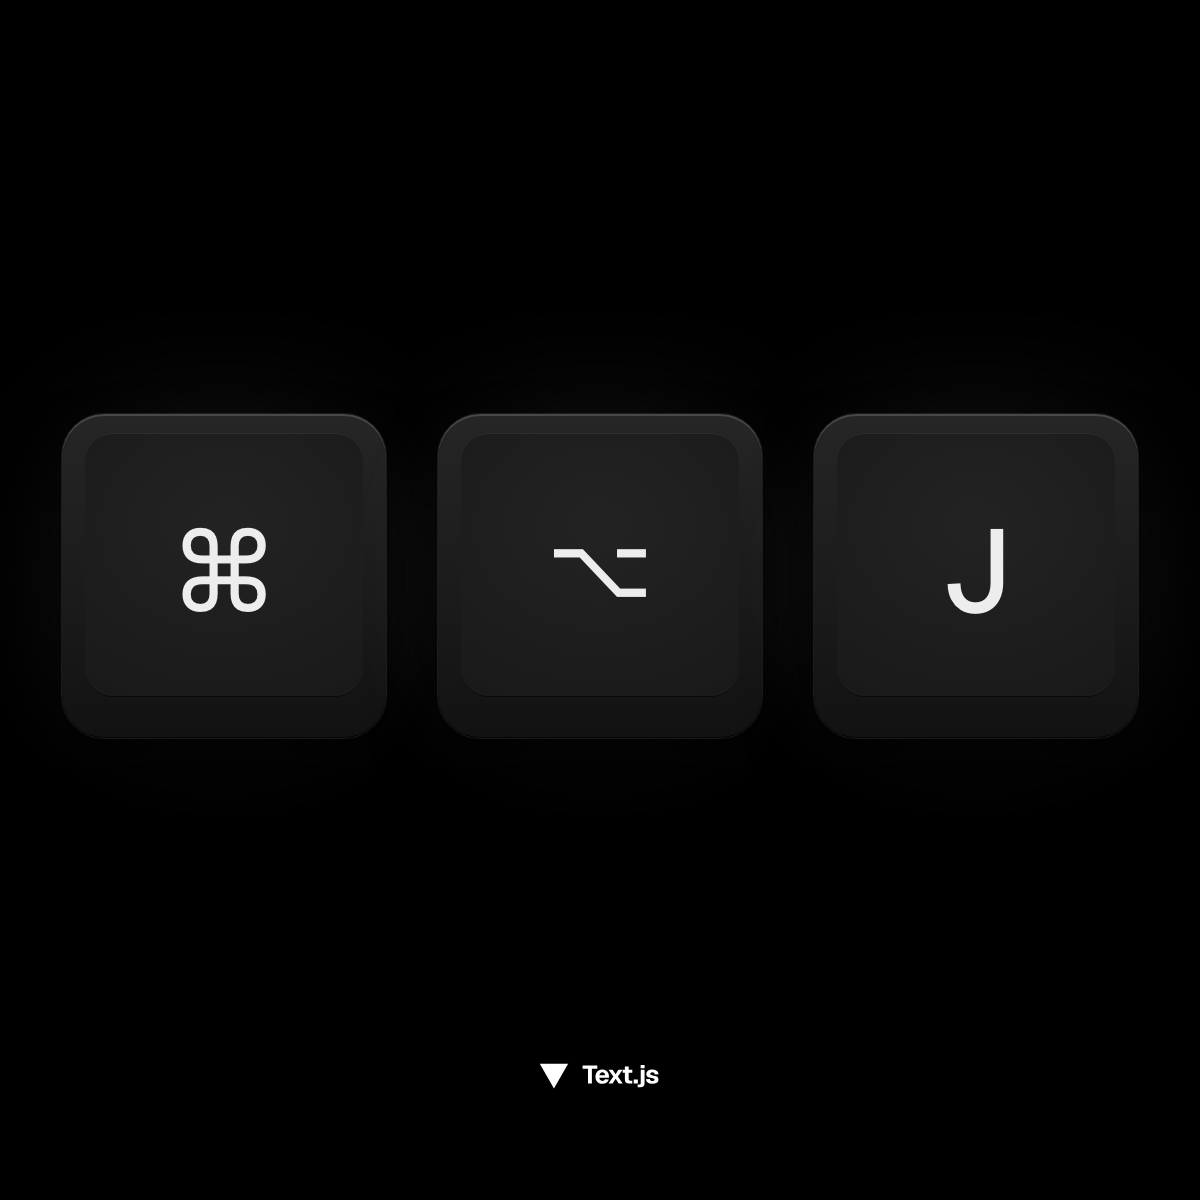
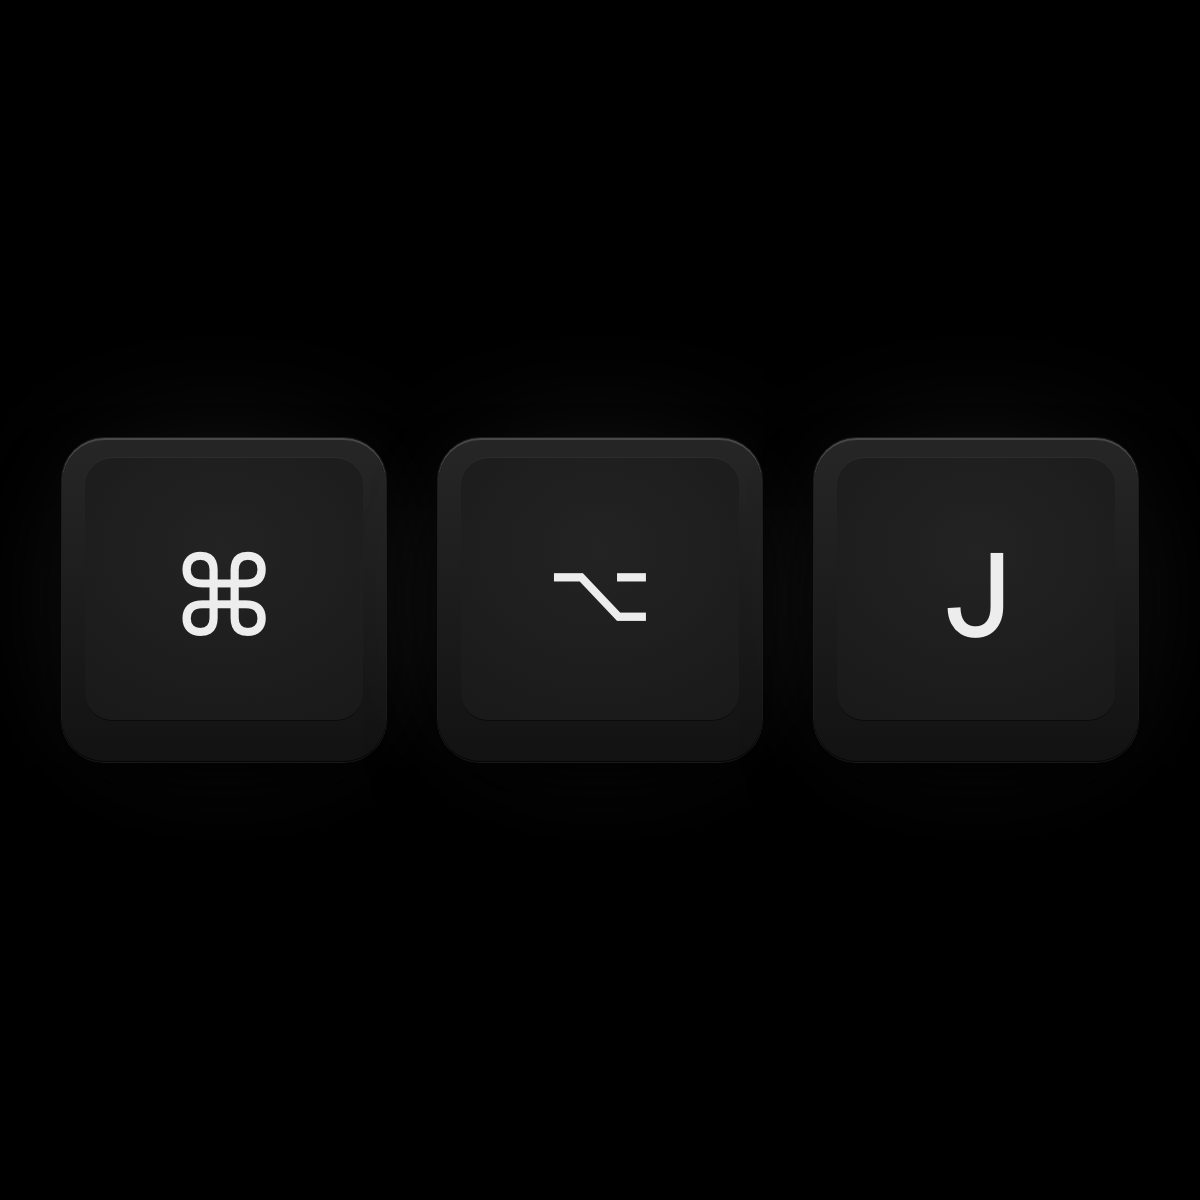
brand(share): X teaser is the keycaps alone, no mark

diff --git a/apps/web/scripts/og/share.ts b/apps/web/scripts/og/share.ts
@@ -82,12 +82,12 @@ function crosses(w: number, h: number, inset: number): string {
   return lines + pts.map(([x, y]) => `<span class="cross" style="left:${(x as number) - 10}px;top:${(y as number) - 10}px"></span>`).join("");
 }
 
+/** The teaser: three keys on black, centred, with no name or mark. */
 function keycaps(w: number, h: number): string {
   const size = Math.round(Math.min(w, h) * (w > h ? 0.33 : 0.27));
   const keys = ["⌘", "⌥", "J"].map((k) => `<div class="key" style="width:${size}px;height:${size}px"><span style="font-size:${Math.round(size * 0.36)}px">${k}</span></div>`).join("");
   return `<div class="share" style="width:${w}px;height:${h}px">
-    <div style="position:absolute;inset:0;display:flex;align-items:center;justify-content:center;gap:${Math.round(size * 0.16)}px;padding-bottom:${Math.round(h * 0.04)}px">${keys}</div>
-    <div class="foot" style="left:50%;transform:translateX(-50%);bottom:${Math.round(h * 0.09)}px">${LOCKUP_SVG}</div></div>`;
+    <div style="position:absolute;inset:0;display:flex;align-items:center;justify-content:center;gap:${Math.round(size * 0.16)}px">${keys}</div></div>`;
 }
 
 function frameShot(w: number, h: number, frame: { html: string; cols: number; rows: number }, fontSize: number): string {
